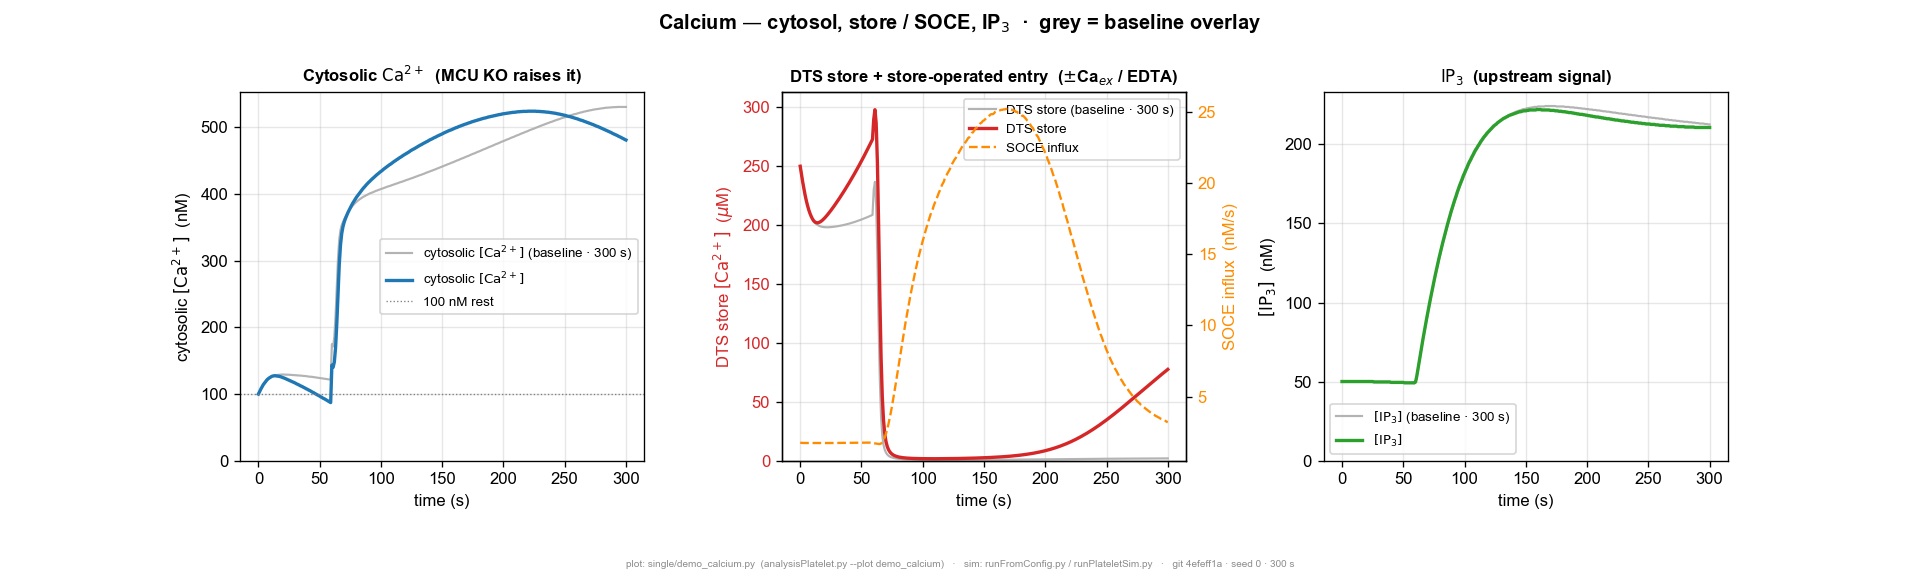
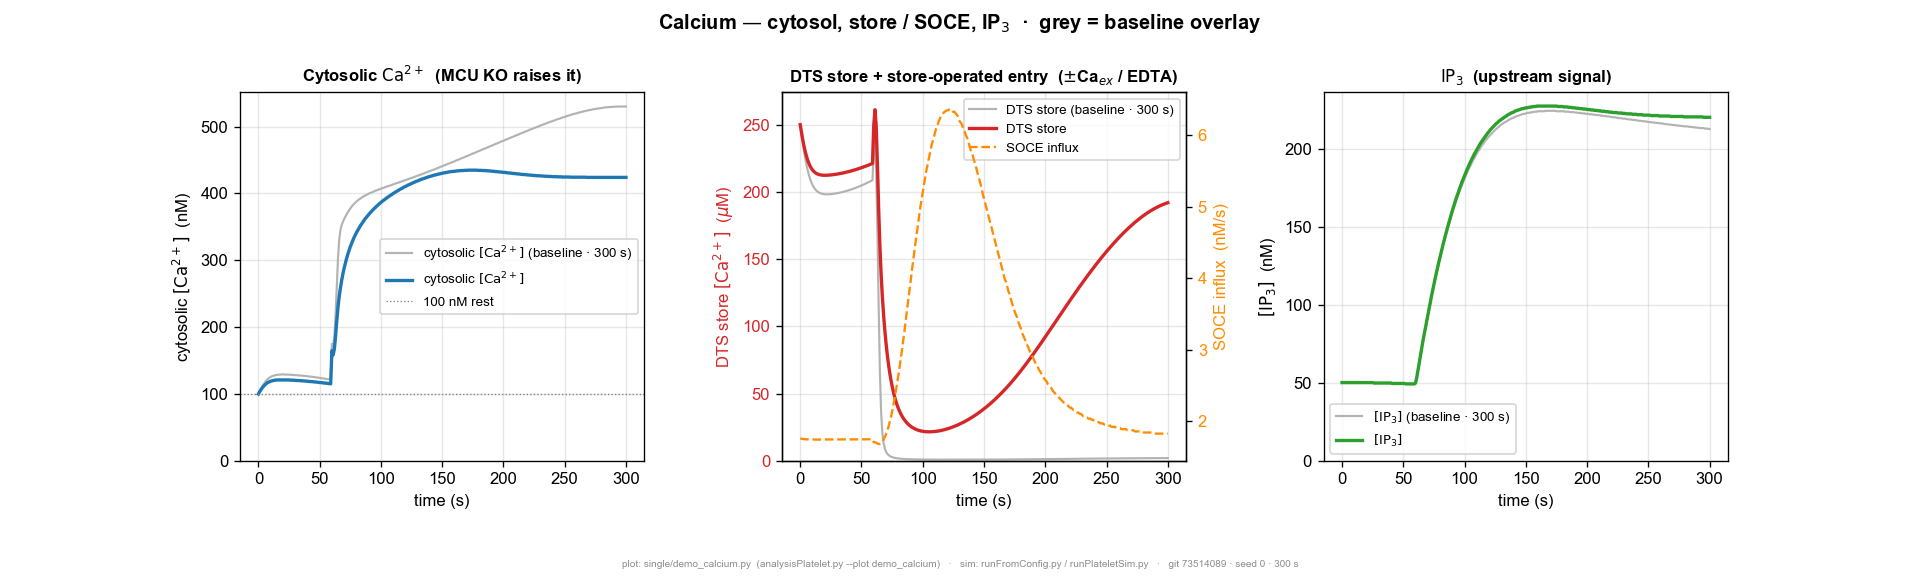
#76 Part 2 (final): evoked IP3R-inactivation-relief coupling — KO reproduces data
MCU relief of the IP3R's Ca2+-dependent inactivation, gated by an activation
function of Ca2+ so it engages only during the transient. factor =
1 - gain*strength*(1-mcu_vmax_scale)*act, act = ca^n/(ca^n+Ka^n), on flux_ip3r
only. WT byte-identical (Dolan 5/5), rest preserved; KO peak -18%, AUC -14%,
store releases less, SOCE falls indirectly. Modest (~15%): lost buffer offsets
lost relief. 135 tests pass, mypy clean.

diff --git a/models/platelet/tests/listeners/test_calcium_trace.py b/models/platelet/tests/listeners/test_calcium_trace.py
@@ -256,7 +256,7 @@ class TestCalciumTraceSoceFlux(unittest.TestCase):
 		orai_count = 400
 		counts = [ca_cyt_count, ca_dts_count, ip3_count,
 			stim1_count, orai_count] + [0] * (_NUM_SPECIES - 5)
-		counts[25] = 1_000  # ca_mito ≥ E_ref → #76 Part 2 coupling factor = 1 (WT)
+		# #76 Part 2 does not gate SOCE, so the chain below is the full ungated SOCE.
 
 		lst = _make_listener(counts, ca_ex_uM=ca_ex_uM)
 		lst.update()
@@ -278,19 +278,34 @@ class TestCalciumTraceSoceFlux(unittest.TestCase):
 
 		self.assertAlmostEqual(lst.soce_flux_nMs, expected_nMs, places=8)
 
-	def test_soce_reduced_when_matrix_depleted(self):
-		"""#76 Part 2: a depleted matrix (ca_mito < E_ref) scales SOCE down."""
-		ca_ex_uM = 1200.0
-		base = [361, 38_800, 180, 200, 400] + [0] * (_NUM_SPECIES - 5)
-		full = list(base); full[25] = 1_000                        # WT → factor 1
-		dep = list(base); dep[25] = round(K_MITO_BIO['E_ref'] / 2)  # → factor 0.5
-		lst_full = _make_listener(full, ca_ex_uM=ca_ex_uM); lst_full.update()
-		lst_dep = _make_listener(dep, ca_ex_uM=ca_ex_uM); lst_dep.update()
-		self.assertAlmostEqual(lst_full.mito_coupling_factor, 1.0, places=9)
-		self.assertAlmostEqual(lst_dep.mito_coupling_factor, 0.5, places=6)
-		# Halved support factor → halved SOCE influx.
+	def test_coupling_factor_one_in_wt_reduced_in_ko_at_high_ca(self):
+		"""#76 Part 2: IP3R-gate factor = 1 in WT; < 1 in KO at evoked (high) Ca²⁺."""
+		counts = [round(0.5 / _UM_PER_COUNT_CYT)] + [0] * (_NUM_SPECIES - 1)  # ~0.5 µM
+		lst_wt = _make_listener(counts); lst_wt.update()
+		self.assertAlmostEqual(lst_wt.mito_coupling_factor, 1.0, places=9)
+		lst_ko = _make_listener(counts); lst_ko._mcu_vmax_scale = 0.0; lst_ko.update()
+		ca = counts[0] * _UM_PER_COUNT_CYT
+		n, ka = K_MITO_BIO['n_act'], K_MITO_BIO['Ka_act']
+		act = ca ** n / (ca ** n + ka ** n)
 		self.assertAlmostEqual(
-			lst_dep.soce_flux_nMs, 0.5 * lst_full.soce_flux_nMs, places=8)
+			lst_ko.mito_coupling_factor,
+			1.0 - K_MITO_BIO['coupling_strength'] * act, places=6)
+		self.assertLess(lst_ko.mito_coupling_factor, 1.0)
+
+	def test_coupling_factor_near_one_at_rest_even_in_ko(self):
+		"""Evoked-specific: at resting Ca²⁺ the gate is ~1 even in KO (rest spared)."""
+		counts = [361] + [0] * (_NUM_SPECIES - 1)   # ca_cyt ≈ 100 nM (rest)
+		lst = _make_listener(counts); lst._mcu_vmax_scale = 0.0; lst.update()
+		self.assertGreater(lst.mito_coupling_factor, 0.97)
+
+	def test_soce_recompute_not_gated_by_coupling(self):
+		"""#76 Part 2: SOCE is NOT gated by the factor (it falls indirectly)."""
+		counts = [round(0.5 / _UM_PER_COUNT_CYT), 38_800, 180, 200, 400] \
+			+ [0] * (_NUM_SPECIES - 5)
+		wt = _make_listener(counts, ca_ex_uM=1200.0); wt.update()
+		ko = _make_listener(counts, ca_ex_uM=1200.0); ko._mcu_vmax_scale = 0.0; ko.update()
+		# Same Ca²⁺/STIM/Orai inputs ⇒ identical recomputed SOCE despite KO.
+		self.assertAlmostEqual(ko.soce_flux_nMs, wt.soce_flux_nMs, places=8)
 
 	def test_soce_flux_non_negative_at_resting_state(self):
 		"""At resting cyt with extracellular > intracellular, SOCE ≥ 0."""

diff --git a/reconstruction/platelet/dataclasses/process/calcium_signalling.py b/reconstruction/platelet/dataclasses/process/calcium_signalling.py
@@ -935,18 +935,22 @@ def _ode_rhs(t, y, t_sim_start, config, step_inputs):
 
 	# Mitochondrial Ca²⁺ state read
 	ca_mito_count = max(y[_IDX['CA2_MITO[m]']], 0.0)
-	# MCU coupling to release + SOCE (#76 Part 2): MCU uptake at MAM / ER–PM
-	# contacts clears the local Ca²⁺ microdomain, relieving the Ca²⁺-dependent
-	# INACTIVATION of IP3R and Orai1 → sustained release/SOCE. With no spatial
-	# microdomains here, the relief is lumped as ∝ *functional MCU capacity*
-	# (mcu_vmax_scale = uptake normalised to full capacity; the matrix LEVEL was
-	# tried first and is brittle — it depends on the matrix initial condition).
-	# factor = 1 − gain·strength·(1 − scale): WT (scale=1) → 1 → both fluxes
-	# unscaled → byte-identical/Dolan-safe; KO (scale=0) → 1−strength → reduced
-	# release + SOCE → cytosolic Ca²⁺ reduced across the whole transient (matches
-	# Ghatge 2026 / Ajanel 2025). gain (default 1) toggles the coupling off.
+	# MCU coupling (#76 Part 2): MCU uptake at the MAM (mitochondria–DTS contact)
+	# clears the local Ca²⁺ microdomain, relieving the IP3R's Ca²⁺-dependent
+	# inactivation → sustained store release. With no spatial microdomains here,
+	# the relief is lumped as ∝ functional MCU capacity (mcu_vmax_scale), and gated
+	# by an ACTIVATION function of Ca²⁺ (mito_act) so it engages only during the
+	# evoked transient (high Ca²⁺) — matching the biology (inactivation only bites
+	# at high Ca²⁺) and so preserving the resting state. WT (scale=1) → factor 1 →
+	# flux_ip3r unchanged → byte-identical / Dolan-safe. Knockout (scale=0) → evoked
+	# release cut → cytosolic Ca²⁺ reduced (peak + AUC); the fuller store then lowers
+	# SOCE indirectly, capturing both reductions Ghatge 2026 / Ajanel 2025 report.
+	# Magnitude is modest (~15 %): the lost MCU buffer in KO raises cyt and partly
+	# offsets the lost relief (competing effects). gain (default 1) toggles it off.
+	mito_act = (ca_cyt ** K_MITO_BIO['n_act']
+		/ (ca_cyt ** K_MITO_BIO['n_act'] + K_MITO_BIO['Ka_act'] ** K_MITO_BIO['n_act']))
 	mito_coupling_factor = (1.0 - config.mito_coupling_gain
-		* K_MITO_BIO['coupling_strength'] * (1.0 - config.mcu_vmax_scale))
+		* K_MITO_BIO['coupling_strength'] * (1.0 - config.mcu_vmax_scale) * mito_act)
 
 	# GPCR cascade state reads
 	p2y1_i = max(y[_IDX['P2Y1_inactive[pl]']], 0.0)
@@ -1050,7 +1054,7 @@ def _ode_rhs(t, y, t_sim_start, config, step_inputs):
 		driving_v = V_IM_V - e_ca_im_v
 		flux_ip3r_ions_s = (
 			-GAMMA_IP3R_S * N_IP3R * po_channel * driving_v * NA_OVER_zF
-			* mito_coupling_factor          # #76 Part 2: MAM support of release
+			* mito_coupling_factor          # #76 Part 2: evoked-gated MAM relief
 		)
 	else:
 		flux_ip3r_ions_s = 0.0
@@ -1233,9 +1237,11 @@ def _ode_rhs(t, y, t_sim_start, config, step_inputs):
 		driving_pm_v = V_PM_V - e_ca_pm_v
 		# Bioenergetic arm of the #76 Part 2 coupling: the same matrix-Ca²⁺
 		# support factor (computed above) scales store-operated entry.
+		# SOCE is NOT gated directly (#76 Part 2): the IP3R-release gate above
+		# leaves the KO store fuller, which lowers store-operated entry on its own
+		# (STIM/Orai see a less-depleted store) — so SOCE falls indirectly.
 		soce_ions_s = (
 			-GAMMA_SOC_S * n_orai_channels * po_orai * driving_pm_v * NA_OVER_zF
-			* mito_coupling_factor
 		)
 		dy[_IDX['CA2_CYT[c]']] += soce_ions_s
 

diff --git a/models/platelet/listeners/calcium_trace.py b/models/platelet/listeners/calcium_trace.py
@@ -31,8 +31,9 @@ Columns written:
   mcu_uptake_per_s  — MCU uptake flux into the matrix this step (ions/s),
                       recomputed from the ODE's Hill kinetics so the otherwise
                       unobserved mitochondrial module is auditable (issue #76)
-  mito_coupling_factor — #76 Part 2 matrix-Ca²⁺ support factor (0–1) gating SOCE
-                      and IP3R store release; 1.0 on the wild type, < 1 on MCU loss
+  mito_coupling_factor — #76 Part 2 evoked IP3R-release gate factor (0–1) =
+                      ∝ MCU capacity × Ca²⁺-activation; 1.0 in WT, < 1 during the
+                      KO transient (SOCE is not gated by it — it falls indirectly)
 """
 
 import numpy as np
@@ -207,13 +208,17 @@ class CalciumTrace(wholecell.listeners.listener.Listener):
 		self.mcu_uptake_per_s = float(
 			K_MITO['V_max_MCU'] * self._mcu_vmax_scale
 			* ca_n / (km_n + ca_n) * mito_fill)
-		# #76 Part 2 — MCU-capacity support factor that gates the SOCE recompute
-		# below (and, in the ODE, IP3R store release). ∝ functional MCU capacity
-		# (mcu_vmax_scale); 1.0 on the wild type → soce_flux_nMs unchanged →
-		# goldens byte-identical; 1−strength on knockout.
+		# #76 Part 2 — the evoked IP3R-release gate factor applied in the ODE
+		# (∝ functional MCU capacity, gated by an activation function of Ca²⁺).
+		# 1.0 on the wild type; < 1 during the KO transient. Recorded for audit;
+		# SOCE is NOT gated by it (SOCE falls indirectly via the fuller store).
+		mito_act = (ca_cyt_uM ** K_MITO_BIO['n_act']
+			/ (ca_cyt_uM ** K_MITO_BIO['n_act']
+				+ K_MITO_BIO['Ka_act'] ** K_MITO_BIO['n_act']))
 		self.mito_coupling_factor = float(
 			1.0 - self._mito_coupling_gain
-			* K_MITO_BIO['coupling_strength'] * (1.0 - self._mcu_vmax_scale))
+			* K_MITO_BIO['coupling_strength'] * (1.0 - self._mcu_vmax_scale)
+			* mito_act)
 
 		# PKC feedback (v0.6): active PKC count + fraction of the P2Y1 pool
 		# in the desensitised phospho-state.
@@ -270,8 +275,7 @@ class CalciumTrace(wholecell.listeners.listener.Listener):
 			driving_pm_v = V_PM_V - e_ca_pm_v
 			soce_ions_s = (
 				-GAMMA_SOC_S * n_orai_channels * po_orai * driving_pm_v * NA_OVER_zF
-				* self.mito_coupling_factor          # #76 Part 2 bioenergetic arm
-			)
+			)  # #76 Part 2: SOCE not gated directly — falls via the fuller store
 		else:
 			soce_ions_s = 0.0
 		# Convert ions/s in cytosol → nM/s (cyt volume).

diff --git a/runscripts/manual/runPerturbation.py b/runscripts/manual/runPerturbation.py
@@ -23,11 +23,12 @@ Exp B — MCU loss reduces the cytosolic transient (v0.7 #76 coupling)
     Knob   : K_MITO['V_max_MCU']  (baseline 50000 ions/s; 0 = knockout)
     Scan   : {0 (KO), 1 (baseline), 4 (over-expression)}
     Protocol: +Ca²⁺ (ca_ex = 1.2 mM), standard sustained agonist transient.
-    Observable: peak/sustained cyt. With the v0.7 #76 coupling (matrix-Ca²⁺ support
-        of IP3R store release + SOCE), MCU=0 depletes the matrix → less release and
-        SOCE → cyt REDUCED (KO ~480 vs WT ~530 nM) and the KO store releases less,
-        matching Ghatge 2026 / Ajanel 2025. Set RunConfig.mito_coupling_gain=0 to
-        recover the old buffer-only behaviour (KO *raises* cyt). See issue #76.
+    Observable: peak/sustained cyt. With the v0.7 #76 coupling (MCU relief of
+        IP3R inactivation, evoked-gated), MCU=0 reduces agonist-evoked release →
+        cyt REDUCED (KO peak ~435 vs WT ~530 nM, -18%); the fuller store also lowers
+        SOCE, matching Ghatge 2026 / Ajanel 2025. Modest magnitude (~15%): the lost
+        MCU buffer partly offsets the lost relief. Set RunConfig.mito_coupling_gain=0
+        to recover the old buffer-only behaviour (KO *raises* cyt). See issue #76.
 
 Exp C — PKC desensitises P2Y1, throttling the ADP arm (v0.6, issue #57)
     Knob   : K_P2Y1_DES['k_des']  (P2Y1 desensitisation rate; 0 = knockout)